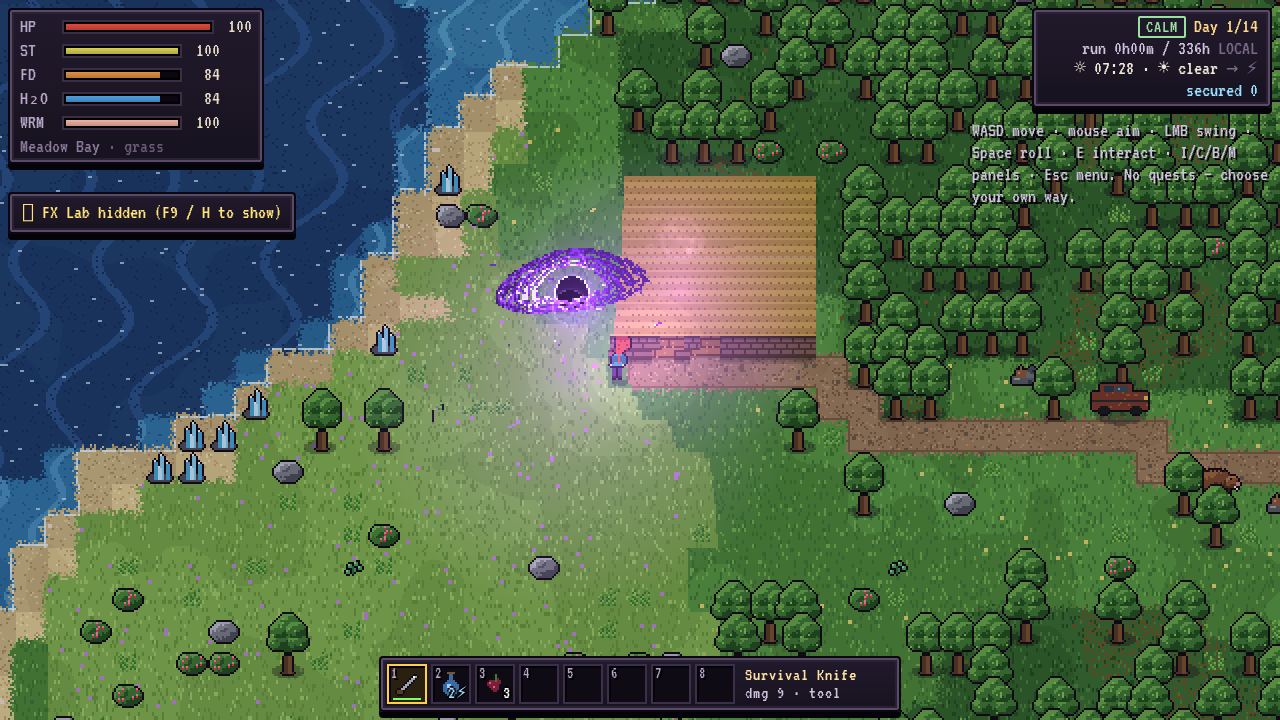
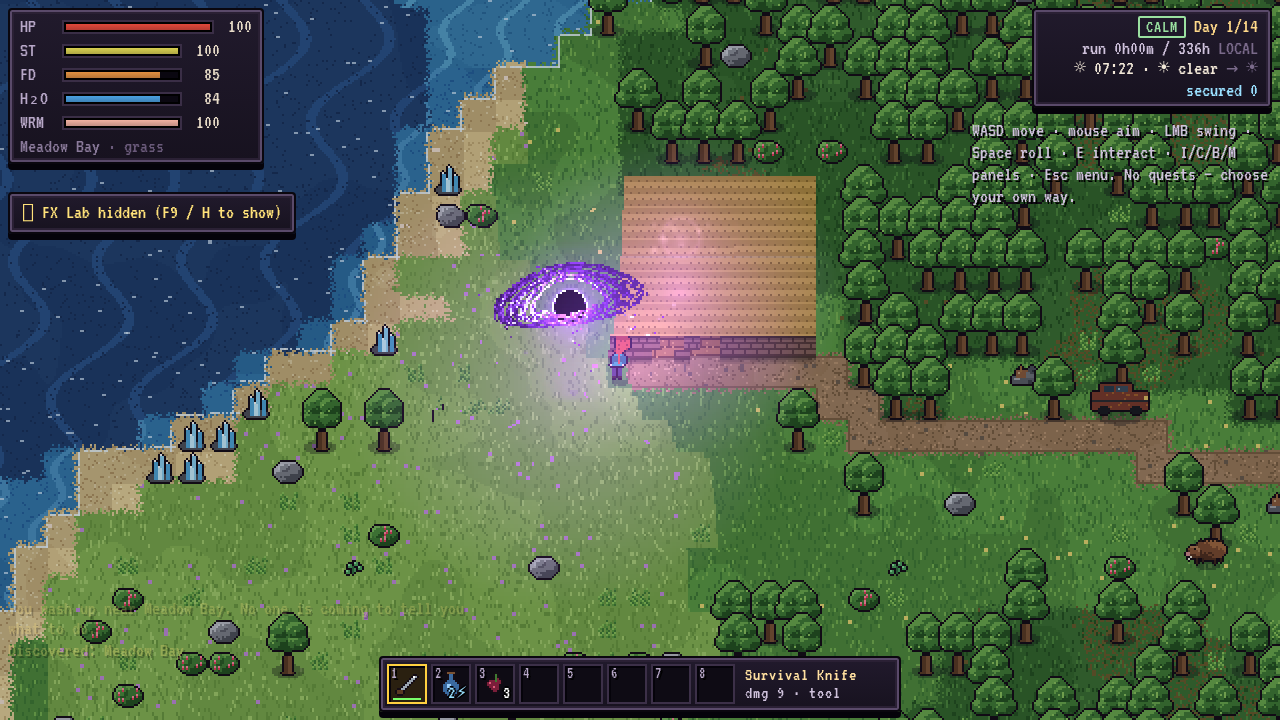
pixelfx: unify black-hole warp-art transform, smooth night light falloff, deliberate-frame QA gate
- drawWarpPass now draws BH artwork with the same destRect (dx/dy/dw/dh, rot around
  rotX/rotY) as emission/radiance/warp focal/ground contact -> disk grounded, no float
- render.ts drawLight: single smooth radial gradient per light replaces 4 banded arcs
- qa-pixelfx gate: frameLuma-driven anticipation/peak/decay frames with exact scrub +
  enforced canvas pixel probes (color counts, centroid/grounding, luminance, night)
- frameLuma awaits image decode; loadImg create-branch now returns the real promise
- gallery + README updated

diff --git a/web/src/game/pixelfx.ts b/web/src/game/pixelfx.ts
@@ -96,7 +96,7 @@ function loadImg(path: string, pilot: boolean): Promise<HTMLImageElement | null>
   let st = imgs.get(path);
   if (!st) {
     const ns: ImgState = { img: null, err: false, p: null as any, pilot, last: 0 };
-    imgs.set(path, ns); pageOrder.push(path);
+    imgs.set(path, ns); pageOrder.push(path); st = ns;
     ns.p = new Promise(res => {
       if (typeof Image === 'undefined') { res(null); return; }
       const im = new Image();
@@ -308,12 +308,14 @@ export function drawWarpPass(g: CanvasRenderingContext2D, cam: { x: number; y: n
         Math.round(cx - rad + pinch), Math.round(wc.y - rad + sy), Math.round(rad * 2 - pinch * 2), Math.ceil(sliceH));
     }
     if (layers.art) {
+      // SAME transform as emission/radiance/ground contact: destRect (r0), not a
+      // separate pivot-based position — art, light and warp focal stay aligned.
       const cell = pageCell(inst.entry, 'combined', frameOf(inst.entry, inst.t));
       if (cell?.img) {
         g.save();
+        if (inst.angle) { g.translate(r0.rotX, r0.rotY); g.rotate(inst.angle); g.translate(-r0.rotX, -r0.rotY); }
         g.drawImage(cell.img, cell.sx, cell.sy, cell.sw, cell.sh,
-          Math.round(cx - inst.entry.export.pivot[0] * inst.scale), Math.round(cy - inst.entry.export.pivot[1] * inst.scale),
-          Math.round(r0.dw), Math.round(r0.dh));
+          Math.round(r0.dx), Math.round(r0.dy), Math.round(r0.dw), Math.round(r0.dh));
         g.restore();
       }
     }
@@ -378,6 +380,28 @@ export function syncProjFx(projs: any[], now: number) {
   }
   for (const [pr, inst] of [...projInst]) if (!projs.includes(pr) || !instances.includes(inst)) projInst.delete(pr);
   void now;
+}
+
+// ---- QA/dev: per-frame mean luminance of the combined channel ----------------------
+// Used by the QA harness to pick deliberate anticipation/peak/decay source frames.
+export async function frameLuma(id: string): Promise<number[]> {
+  const e = manifest.get(id); if (!e || typeof document === 'undefined') return [];
+  const pilot = ((PILOT_MANIFEST as any).effects ?? PILOT_MANIFEST).some((p: any) => p.id === id);
+  for (const p of e.export.pages.combined) await loadImg(p.path, pilot); // ensure decoded before measuring
+  const out: number[] = [];
+  const cv = document.createElement('canvas'); cv.width = 16; cv.height = 16;
+  const g = cv.getContext('2d', { willReadFrequently: true })!;
+  for (let f = 0; f < e.export.frames; f++) {
+    const cell = pageCell(e, 'combined', f);
+    if (!cell?.img) { out.push(0); continue; }
+    g.clearRect(0, 0, 16, 16);
+    g.drawImage(cell.img, cell.sx, cell.sy, cell.sw, cell.sh, 0, 0, 16, 16);
+    const d = g.getImageData(0, 0, 16, 16).data;
+    let s = 0, n = 0;
+    for (let i = 0; i < d.length; i += 4) { const a = d[i + 3] / 255; s += a * (0.2126 * d[i] + 0.7152 * d[i + 1] + 0.0722 * d[i + 2]); n += a; }
+    out.push(n > 0.5 ? s / n : 0);
+  }
+  return out;
 }
 
 // ---- stats (ring buffer for p50/p95) ------------------------------------------------

diff --git a/web/src/game/render.ts b/web/src/game/render.ts
@@ -425,7 +425,11 @@ function drawLight(g: CanvasRenderingContext2D, r: RunState, now: number, time: 
   for (const k in r.sources) { const st: any = r.sources[+k]; if (st.fire && st.fire > r.clock.simMs) { const i = +k; lights.push([(i % WW) * 16 + 8, ((i / WW) | 0) * 16, 60, '#ff7a2a']); } }
   const tx0 = Math.floor(cx / 16), ty0 = Math.floor(cy / 16); for (let ty = ty0; ty < ty0 + 24; ty += 2) for (let tx = tx0; tx < tx0 + 41; tx += 2) if (effTile(r, tx, ty) === T.LAVA) lights.push([tx * 16 + 8, ty * 16 + 8, 34, '#ff6a1e']);
   l.globalCompositeOperation = 'destination-out';
-  for (const [x, y, rad] of lights) { const X = x - cx, Y = y - cy; for (let k = 0; k < 4; k++) { l.fillStyle = `rgba(0,0,0,${0.32 + k * 0.17})`; l.beginPath(); l.arc(Math.round(X), Math.round(Y), Math.round(rad * (1 - k * 0.2)), 0, Math.PI * 2); l.fill(); } }
+  // smooth radial falloff per light — environmental illumination, no concentric bands
+  for (const [x, y, rad] of lights) { const X = Math.round(x - cx), Y = Math.round(y - cy);
+    const gr = l.createRadialGradient(X, Y, Math.max(1, rad * 0.08), X, Y, rad);
+    gr.addColorStop(0, 'rgba(0,0,0,0.95)'); gr.addColorStop(0.5, 'rgba(0,0,0,0.55)'); gr.addColorStop(0.8, 'rgba(0,0,0,0.18)'); gr.addColorStop(1, 'rgba(0,0,0,0)');
+    l.fillStyle = gr; l.beginPath(); l.arc(X, Y, Math.ceil(rad), 0, Math.PI * 2); l.fill(); }
   g.drawImage(lightCv, 0, 0);
   g.globalCompositeOperation = 'lighter'; for (const [x, y, rad, col] of lights) { if (!col) continue; g.fillStyle = col; g.globalAlpha = 0.07 * dark * 1.5; g.beginPath(); g.arc(Math.round(x - cx), Math.round(y - cy), rad * 0.7, 0, Math.PI * 2); g.fill(); } g.globalAlpha = 1; g.globalCompositeOperation = 'source-over';
 }

diff --git a/web/src/ui/Game.tsx b/web/src/ui/Game.tsx
@@ -136,6 +136,7 @@ export default function Game({ gs, report, onExit, onRunEnd }: { gs: GameState; 
   const nightRef = useRef(nightOverride); nightRef.current = nightOverride;
   (window as any).__soh = gs; // QA-only inspection hook (browser automation); no gameplay authority
   (window as any).__pfx = pfx; // QA-only hook for FX stats/instances
+  (window as any).__cam = cam; // QA-only camera hook
   (window as any).__qaNight = (v: boolean) => setNightOverride(v); // QA-only darkness override; never touches game clock/save
   const r = gs.run; if (!r) return <div className="stage" />;
   const p = r.player; const now = Date.now(); const ph = phaseOf(r, now); const hrs = runHours(r, now); const day = Math.floor(hrs / 24) + 1;

diff --git a/web/README_PIXELFX.md b/web/README_PIXELFX.md
@@ -83,9 +83,21 @@ LD_LIBRARY_PATH=<nss-stub> node scripts/qa-pixelfx.mjs                 # standal
 ```
 
 Latest results (Chromium headless, this sandbox, vsync-capped 60 fps): 30/30 vitest,
-tsc clean, build ~13.9 MB single file. Browser QA both modes: ALL PASS — v5 gate
-gallery (ice-lance / arcane-orb / black-hole × day / QA-night / real-night × 3 phases,
-lab hidden for unobstructed shots), lab non-mutation (state+save byte-identical),
+tsc clean, build ~13.9 MB single file. Browser QA both modes: ALL PASS — v5 gate now
+uses **deliberate source frames**: per-frame source luminance (`window.__pfx.frameLuma`)
+picks anticipation (8 %) / peak (argmax) / decay (90 %) frames, the lab pauses and
+scrubs to the exact frame time (frame/30×1000 ms) for day + QA-night screenshots,
+and canvas pixel probes are enforced: ice-lance peak cyan n=151 day / 970 night
+(maxL 246), arcane-orb peak purple n=1090 day / 1566 night (maxL 187/189 — the orb's
+peak luminance is only ~3 % above its mean, i.e. a sustained glow rather than a flash;
+richness verified by pixel count, not just a bright frame), black-hole peak purple
+n=930 day / 2908 night (maxL 214/218) with art centroid aligned to the world anchor
+(|cx−sx| < 26 px) and the disk grounded (cy ≤ anchor+10 — it touches the ground/roof
+line instead of floating), real night (dayTime 0.001) black hole + orb n=7526.
+Night light mask uses one smooth radial gradient per light (no concentric bands).
+Gallery: ice-lance / arcane-orb / black-hole × day / QA-night × 3 deliberate frames +
+real DAY/NIGHT pair, lab hidden for unobstructed shots. Lab non-mutation (state+save
+byte-identical),
 one Core cast = exactly one charge debit (3→2; four cores → [2,2,3,2]), perf
 1/3/10 FX = 59–60 fps, p50=p95=16.7 ms, full pack catalog = 244 with lazy load,
 save/reload, zero page errors. `e2e/salt-chain.mjs` PASSES on the latest prototype
